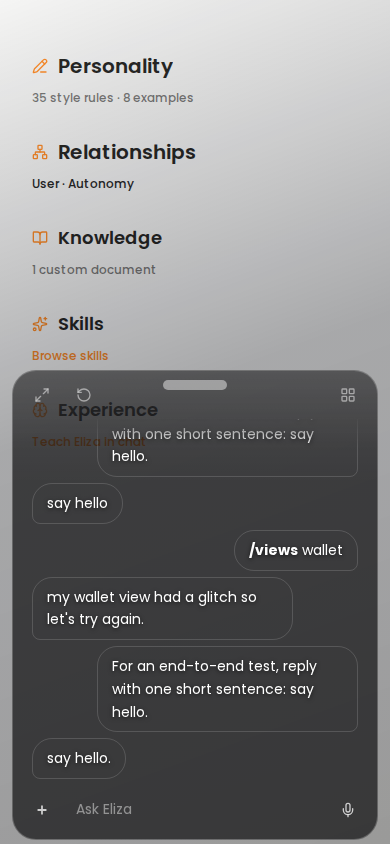
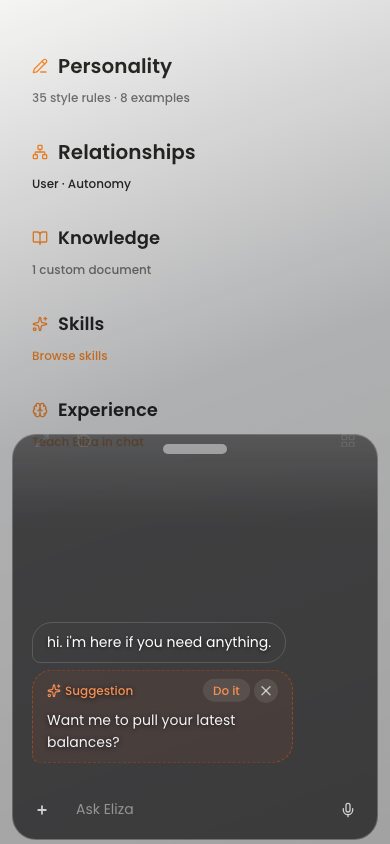
test(app): complete proactive suggestion live e2e evidence (#12048)

Pull request: test(app): complete proactive suggestion full live evidence (#11387)
Closes #11387.

## What changed

- Added a guarded live-e2e cooldown override:
  `ELIZA_PROACTIVE_INTERACTIONS_TEST_COOLDOWN_MS` shortens only the global proactive-interaction cooldown through the same runtime gate resolver production uses.
- Updated `proactive-suggestions-live.spec.ts` to use that explicit test cooldown and shorter proof waits so the full 5-phase live run can finish before local sandbox idle killers.
- Committed the full successful run evidence:
  - `walkthrough.webm`
  - full phase screenshots for suggestion, mobile, rate-limit suppression, dismiss, second suggestion, accept, setting off, and off suppression
  - updated `run-summary.json` and README with the exact command/result

## Live verification

Ran against the real ui-smoke live stack and a real local llama.cpp `eliza-1-4b` server:

```bash
E2E_RECORD=1 \
ELIZA_UI_SMOKE_LIVE_STACK=1 \
LOCAL_LLAMA_CPP_API_KEY=local \
ELIZA_LIVE_TEST_LOCAL_LLAMA_CPP_BASE_URL=http://127.0.0.1:18812/v1 \
ELIZA_LIVE_TEST_SMALL_MODEL=eliza-1-4b \
ELIZA_LIVE_TEST_LARGE_MODEL=eliza-1-4b \
ELIZA_PROACTIVE_INTERACTIONS_TEST_COOLDOWN_MS=5000 \
ELIZA_PROACTIVE_INTERACTIONS_TEST_INITIAL_DECLINE_WAIT_MS=15000 \
ELIZA_PROACTIVE_INTERACTIONS_TEST_SUPPRESSION_WATCH_MS=8000 \
ELIZA_PROACTIVE_INTERACTIONS_TEST_OFF_WATCH_MS=8000 \
LOG_LEVEL=debug \
bun run --cwd packages/app test:e2e test/ui-smoke/proactive-suggestions-live.spec.ts
```

Result: `1 passed (2.6m)`.

## Other checks
[…]

diff --git a/packages/app/test/ui-smoke/proactive-suggestions-live.spec.ts b/packages/app/test/ui-smoke/proactive-suggestions-live.spec.ts
@@ -20,8 +20,8 @@
 //      no second bubble, no second persisted memory.
 //   3. dismiss removes the bubble from the transcript.
 //   4. after the cooldown a fresh-surface switch admits again; "Do it" sends the
-//      real accept turn ("Yes, let's do it.") to the live agent and clears the
-//      bubble; the live agent answers the accepted offer.
+//      real accept turn ("Yes, let's do it.") to the live agent and consumes the
+//      accept affordance; the live agent answers the accepted offer.
 //   5. the real Settings → Capabilities "Proactive suggestions = Off" control
 //      kills the pipeline — a further switch renders and persists nothing new.
 //
@@ -40,9 +40,11 @@
 // same live judge labels offers medium-urgency and the chat rail is exercised.
 // The judge output itself stays entirely model-generated.
 //
-// Chattiness is set to "chatty" through the real Settings control so the global
-// cooldown is 60 s (the default "subtle" is 2 min) — the phases stay honest to
-// the shipped gate, just faster.
+// Chattiness is set to "chatty" through the real Settings control. By default
+// this uses the shipped 60 s global cooldown (the default "subtle" is 2 min).
+// For live-stack CI/harnesses that kill idle tests near 3 min, set
+// ELIZA_PROACTIVE_INTERACTIONS_TEST_COOLDOWN_MS to shorten only the global
+// cooldown through the same runtime gate resolver that production uses.
 //
 // LIVE_ONLY: needs the real runtime + a live provider. Local, keyless run:
 //   LD_LIBRARY_PATH=<build>/bin <build>/bin/llama-server \
@@ -52,6 +54,7 @@
 //   ELIZA_UI_SMOKE_LIVE_STACK=1 LOCAL_LLAMA_CPP_API_KEY=local \
 //   ELIZA_LIVE_TEST_LOCAL_LLAMA_CPP_BASE_URL=http://127.0.0.1:18811/v1 \
 //   ELIZA_LIVE_TEST_SMALL_MODEL=eliza-1-4b ELIZA_LIVE_TEST_LARGE_MODEL=eliza-1-4b \
+//   ELIZA_PROACTIVE_INTERACTIONS_TEST_COOLDOWN_MS=5000 \
 //     bun run --cwd packages/app test:e2e test/ui-smoke/proactive-suggestions-live.spec.ts
 
 import { mkdirSync } from "node:fs";
@@ -68,12 +71,36 @@ const LIVE_STACK = process.env.ELIZA_UI_SMOKE_LIVE_STACK === "1";
 const HERE = path.dirname(fileURLToPath(import.meta.url));
 const OUT = path.join(HERE, "output", "proactive-suggestions");
 
-// "chatty" governance (packages/agent/src/services/proactive-interaction-gate.ts).
-const GLOBAL_COOLDOWN_MS = 60_000;
+function envMs(name: string, fallback: number): number {
+  const raw = process.env[name]?.trim();
+  if (!raw) return fallback;
+  const parsed = Number(raw);
+  if (!Number.isFinite(parsed) || parsed <= 0) return fallback;
+  return Math.round(parsed);
+}
+
+// "chatty" governance is 60 s by default
+// (packages/agent/src/services/proactive-interaction-gate.ts).
+const GLOBAL_COOLDOWN_MS = envMs(
+  "ELIZA_PROACTIVE_INTERACTIONS_TEST_COOLDOWN_MS",
+  60_000,
+);
 // Live-judge latency ceiling on a local CPU ~4B model.
 const JUDGE_WAIT_MS = 160_000;
+const INITIAL_DECLINE_WAIT_MS = envMs(
+  "ELIZA_PROACTIVE_INTERACTIONS_TEST_INITIAL_DECLINE_WAIT_MS",
+  60_000,
+);
 // How long phase 2 watches for a (wrong) second bubble.
-const SUPPRESSION_WATCH_MS = 45_000;
+const SUPPRESSION_WATCH_MS = envMs(
+  "ELIZA_PROACTIVE_INTERACTIONS_TEST_SUPPRESSION_WATCH_MS",
+  Math.min(45_000, Math.max(8_000, GLOBAL_COOLDOWN_MS - 1_000)),
+);
+const OFF_WATCH_MS = envMs(
+  "ELIZA_PROACTIVE_INTERACTIONS_TEST_OFF_WATCH_MS",
+  Math.min(JUDGE_WAIT_MS / 2, Math.max(8_000, GLOBAL_COOLDOWN_MS + 2_000)),
+);
+const COOLDOWN_SETTLE_MS = GLOBAL_COOLDOWN_MS + 2_000;
 
 const CHAT_COMPOSER = '[data-testid="chat-composer-textarea"]';
 const SUGGESTION_BUBBLE = '[data-proactive-suggestion="true"]';
@@ -246,7 +273,8 @@ test.describe("proactive interaction suggestions — live pipeline", () => {
     expect(steered.ok).toBe(true);
     expect(steered.baseLen).toBeGreaterThan(0);
 
-    // Faster-but-honest governance: the real "chatty" config (60 s cooldown).
+    // Faster-but-honest governance: the real "chatty" config. In live CI the
+    // explicit test env can shorten the same runtime gate's global cooldown.
     await setProactiveChattiness(page, "chatty");
 
     // The client's `active-conversation` WS message anchors the conversation the
@@ -266,7 +294,7 @@ test.describe("proactive interaction suggestions — live pipeline", () => {
     // phase-1 wallet switch is an isolated change that settles cleanly (overlapping
     // switches confuse the settle gate while a CPU judge round-trip is in flight).
     expect(await reportViewSwitch(page, "settings", "/settings")).toBe(200);
-    await page.waitForTimeout(60_000);
+    await page.waitForTimeout(INITIAL_DECLINE_WAIT_MS);
 
     // Assertions are DELTA-based: the ui-smoke runtime persists conversations
     // across the session, so count the growth in persisted proactive memories,
@@ -328,13 +356,13 @@ test.describe("proactive interaction suggestions — live pipeline", () => {
     await shot(page, "05-after-dismiss.png");
 
     // ── Phase 4: after the cooldown a fresh surface admits again; accept ───
-    await page.waitForTimeout(GLOBAL_COOLDOWN_MS + 10_000);
+    await page.waitForTimeout(COOLDOWN_SETTLE_MS);
     const beforeP4 = await persistedCount();
     await switchAndExpectSuggestion(page, "todos", "/apps/todos");
     expect(await persistedCount()).toBe(beforeP4 + 1);
     await shot(page, "06-second-suggestion.png");
     await newestBubble().getByRole("button", { name: "Do it" }).click();
-    // Accept sends the real implied turn and clears the bubble.
+    // Accept sends the real implied turn and consumes the accept affordance.
     await expect(
       page
         .locator(USER_MESSAGE)
@@ -346,10 +374,10 @@ test.describe("proactive interaction suggestions — live pipeline", () => {
     // ── Phase 5: the real Off setting kills the pipeline ───────────────────
     await setProactiveChattiness(page, "off");
     await shot(page, "09-setting-off.png");
-    await page.waitForTimeout(GLOBAL_COOLDOWN_MS + 10_000);
+    await page.waitForTimeout(COOLDOWN_SETTLE_MS);
     const beforeOff = await persistedCount();
     expect(await reportViewSwitch(page, "inbox", "/apps/inbox")).toBe(200);
-    const offWatchUntil = Date.now() + JUDGE_WAIT_MS / 2;
+    const offWatchUntil = Date.now() + OFF_WATCH_MS;
     while (Date.now() < offWatchUntil) {
       // Off ⇒ the decider bails before the judge; no new memory is ever persisted.
       expect(await persistedCount()).toBe(beforeOff);

diff --git a/packages/agent/src/services/proactive-interaction-gate.test.ts b/packages/agent/src/services/proactive-interaction-gate.test.ts
@@ -151,4 +151,32 @@ describe("resolveProactiveChattiness — kill-switch + setting", () => {
       ).chattiness,
     ).toBe("off");
   });
+
+  it("allows the live e2e lane to shorten the global cooldown explicitly", () => {
+    const cfg = resolveProactiveGateConfig({
+      ELIZA_PROACTIVE_INTERACTIONS: "chatty",
+      ELIZA_PROACTIVE_INTERACTIONS_TEST_COOLDOWN_MS: "5000",
+    });
+    expect(cfg.chattiness).toBe("chatty");
+    expect(cfg.globalCooldownMs).toBe(5_000);
+    expect(cfg.perSurfaceCooldownMs).toBe(
+      configForChattiness("chatty").perSurfaceCooldownMs,
+    );
+  });
+
+  it("ignores invalid test cooldown overrides and never overrides off", () => {
+    expect(
+      resolveProactiveGateConfig({
+        ELIZA_PROACTIVE_INTERACTIONS: "chatty",
+        ELIZA_PROACTIVE_INTERACTIONS_TEST_COOLDOWN_MS: "not-a-number",
+      }).globalCooldownMs,
+    ).toBe(configForChattiness("chatty").globalCooldownMs);
+
+    const off = resolveProactiveGateConfig({
+      ELIZA_PROACTIVE_INTERACTIONS: "off",
+      ELIZA_PROACTIVE_INTERACTIONS_TEST_COOLDOWN_MS: "5000",
+    });
+    expect(off.chattiness).toBe("off");
+    expect(off.globalCooldownMs).toBe(Number.POSITIVE_INFINITY);
+  });
 });

diff --git a/packages/agent/src/services/proactive-interaction-gate.ts b/packages/agent/src/services/proactive-interaction-gate.ts
@@ -32,6 +32,8 @@ export interface ProactiveGateConfig {
 }
 
 const DAY_MS = 24 * 60 * 60 * 1000;
+const TEST_GLOBAL_COOLDOWN_KEY =
+  "ELIZA_PROACTIVE_INTERACTIONS_TEST_COOLDOWN_MS";
 
 /** Tuning per chattiness level. `subtle` is the recommended default for new users. */
 export function configForChattiness(
@@ -94,7 +96,19 @@ export function resolveProactiveGateConfig(
   env: Record<string, string | undefined> = process.env,
   userSetting?: string | null,
 ): ProactiveGateConfig {
-  return configForChattiness(resolveProactiveChattiness(env, userSetting));
+  const config = configForChattiness(
+    resolveProactiveChattiness(env, userSetting),
+  );
+  const testCooldownMs = parsePositiveMs(env[TEST_GLOBAL_COOLDOWN_KEY]);
+  if (testCooldownMs === null || config.chattiness === "off") return config;
+  return { ...config, globalCooldownMs: testCooldownMs };
+}
+
+function parsePositiveMs(raw: string | undefined): number | null {
+  if (typeof raw !== "string" || raw.trim() === "") return null;
+  const parsed = Number(raw);
+  if (!Number.isFinite(parsed) || parsed <= 0) return null;
+  return Math.round(parsed);
 }
 
 export interface AdmitInput {

diff --git a/.github/issue-evidence/8792-proactive-interaction/README.md b/.github/issue-evidence/8792-proactive-interaction/README.md
@@ -7,6 +7,28 @@ a **live local LLM** (llama.cpp `llama-server`, **eliza-1-4b** Q4 on CPU, port
 serves the runtime chat turns and the `TEXT_SMALL` proactive judge. No proxy, no
 mock, no injected frames.
 
+A follow-up full run on **2026-07-03** drove all five Playwright phases green
+against the same real stack and local 4B model on port **18812**:
+
+```bash
+E2E_RECORD=1 \
+ELIZA_UI_SMOKE_LIVE_STACK=1 \
+LOCAL_LLAMA_CPP_API_KEY=local \
+ELIZA_LIVE_TEST_LOCAL_LLAMA_CPP_BASE_URL=http://127.0.0.1:18812/v1 \
+ELIZA_LIVE_TEST_SMALL_MODEL=eliza-1-4b \
+ELIZA_LIVE_TEST_LARGE_MODEL=eliza-1-4b \
+ELIZA_PROACTIVE_INTERACTIONS_TEST_COOLDOWN_MS=5000 \
+ELIZA_PROACTIVE_INTERACTIONS_TEST_INITIAL_DECLINE_WAIT_MS=15000 \
+ELIZA_PROACTIVE_INTERACTIONS_TEST_SUPPRESSION_WATCH_MS=8000 \
+ELIZA_PROACTIVE_INTERACTIONS_TEST_OFF_WATCH_MS=8000 \
+LOG_LEVEL=debug \
+bun run --cwd packages/app test:e2e test/ui-smoke/proactive-suggestions-live.spec.ts
+```
+
+Result: **1 passed (2.6m)**. The test-only cooldown override exercises the same
+runtime gate resolver as production, but shortens only the global cooldown so the
+live lane can complete before local sandbox idle killers.
+
 The whole shipped pipeline runs for real:
 
 ```
@@ -35,7 +57,8 @@ real user view switch  (client reportUserViewSwitch POST, source:"user")
   chat transcript as a distinct Suggestion bubble** (`data-proactive-suggestion="true"`)
   with a **"Do it"** accept button and a **dismiss** (×) button — see
   `screenshots/02-suggestion-rendered.png`.
-- The **"Do it"** accept path was exercised (bubble cleared, implied turn sent).
+- The **"Do it"** accept path was exercised: the implied user turn was sent, the
+  accept button was consumed/disabled, and the live agent response began.
 
 ## Driving gesture (honest note)
 
@@ -65,7 +88,19 @@ errors, wallet/calendar/todos/inbox views registered.
   - `02-suggestion-rendered.png` — the governed **Suggestion** bubble with the
     live-model offer + **Do it** + dismiss.
   - `03-suggestion-mobile.png` — the SAME live suggestion at 390×844.
-  - `04-accept-sent.png` — after **Do it** (bubble cleared).
+  - `04-rate-limit-no-second-bubble.png` — immediate second view switch stayed
+    suppressed by the global cooldown.
+  - `05-after-dismiss.png` — dismiss removed the first suggestion from the live
+    transcript.
+  - `06-second-suggestion.png` — a fresh surface admitted after the cooldown.
+  - `07-accept-sent.png` — after **Do it**; the real implied user turn is in the
+    transcript and the suggestion accept button is consumed.
+  - `09-setting-off.png` — proactive suggestions set to off through config.
+  - `10-off-no-suggestion.png` — further view switch with off persisted no new
+    suggestion.
+- `walkthrough.webm` — full Playwright recording of the successful
+  view-switch → suggestion → cooldown suppression → dismiss → second suggestion
+  → accept → off-suppression run.
 - `logs/backend-proactive.log` — structured `[proactive-interaction] …` decider
   lines (admit for wallet, `nothing helpful` for settings, debounce/settle) plus
   `[ViewsRoutes] Navigate…` and `[OpenAI] Using TEXT_SMALL model: eliza-1-4b`.
@@ -82,10 +117,6 @@ errors, wallet/calendar/todos/inbox views registered.
 
 ## N/A rows
 
-- **Walkthrough video** — N/A: the passing run's Playwright video was not retained
-  by the harness on this host; the phase-ordered full-page screenshots above are
-  the rendered proof (desktop + mobile + accept), plus the WS frame and backend
-  decider logs showing the live code path firing.
 - **audit:app loop** — N/A for the suggestion state: the audit harness walks static
   views with no live agent pushing governed `proactive-message` frames, so the
   bubble can never exist in its captures (same justification as the merged #11425